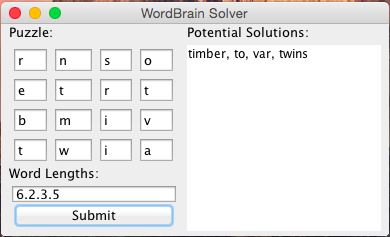
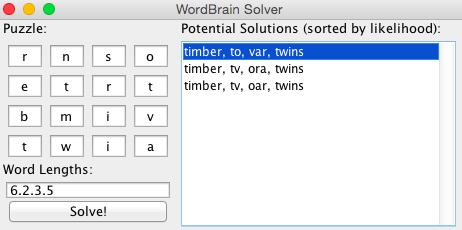
chore (readme): update ui pictures and descriptions

Changed region(s): [[0.0, 0.0, 1.0, 1.0]]

diff --git a/src/main/nyc/angus/wordgrid/ui/solution/SolutionDisplayPanel.java b/src/main/nyc/angus/wordgrid/ui/solution/SolutionDisplayPanel.java
@@ -81,7 +81,7 @@ public class SolutionDisplayPanel extends JPanel {
 			for (int x = 0; x < characters[0].length; x++) {
 				LOGGER.log(Level.FINER, "Resetting field at (" + x + "," + y + ").");
 				final JTextField field = characters[y][x];
-				field.setText("");
+				field.setText(Character.toString(word.getGrid()[y][x]));
 				field.setBackground(Color.WHITE);
 				field.setForeground(Color.BLACK);
 
@@ -101,11 +101,9 @@ public class SolutionDisplayPanel extends JPanel {
 
 			final JTextField field = characters[pos.y][pos.x];
 
-			field.setText(Character.toString(word.getGrid()[pos.y][pos.x]));
 			field.setBackground(color);
 			field.setForeground(Color.WHITE);
 
 		}
 	}
-
 }

diff --git a/README.md b/README.md
@@ -76,6 +76,15 @@ Finally, when everything has been entered, solutions to the puzzle are shown on 
 
 ![Solutions Displayed](examples/grid-with-solution.png)
 
+Each potential solution can be selected to show where the words in the solution appear:
+
+![First Word Highlighted](examples/solution-word-1.png)
+
+As each word is selected, the grid is updated to remove the characters from the previous grid:
+
+![First Word Highlighted](examples/solution-word-2.png)
+
+
 ### Credits ###
 
 - Word frequencies for the ranker are from [wordfrequency.info](http://www.wordfrequency.info/top5000.asp).
